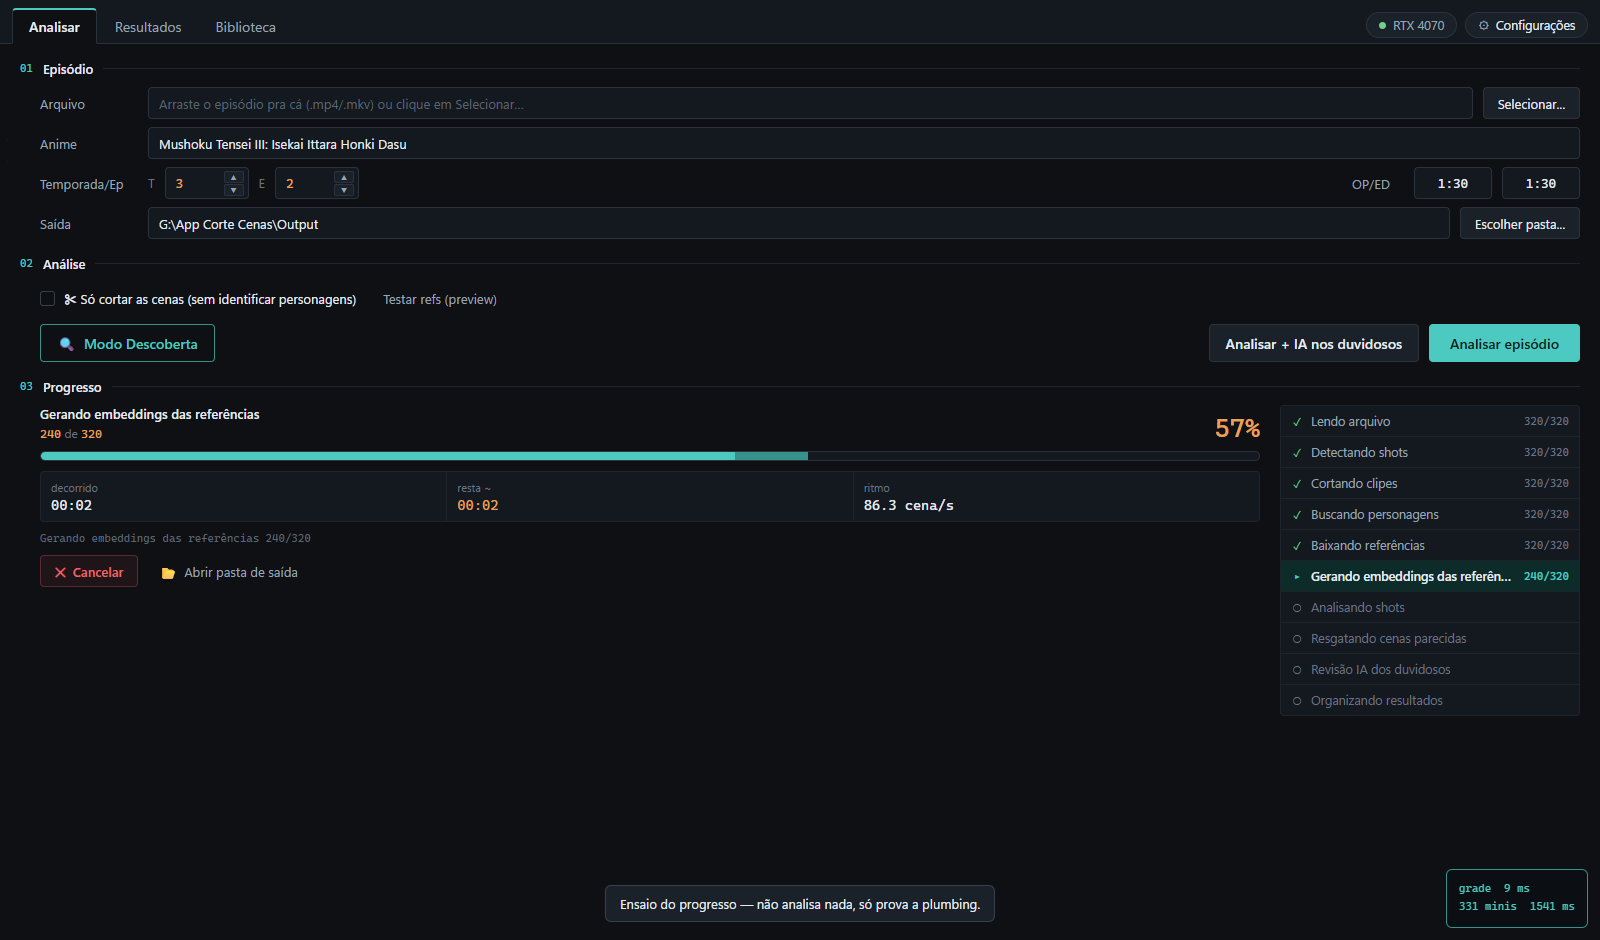
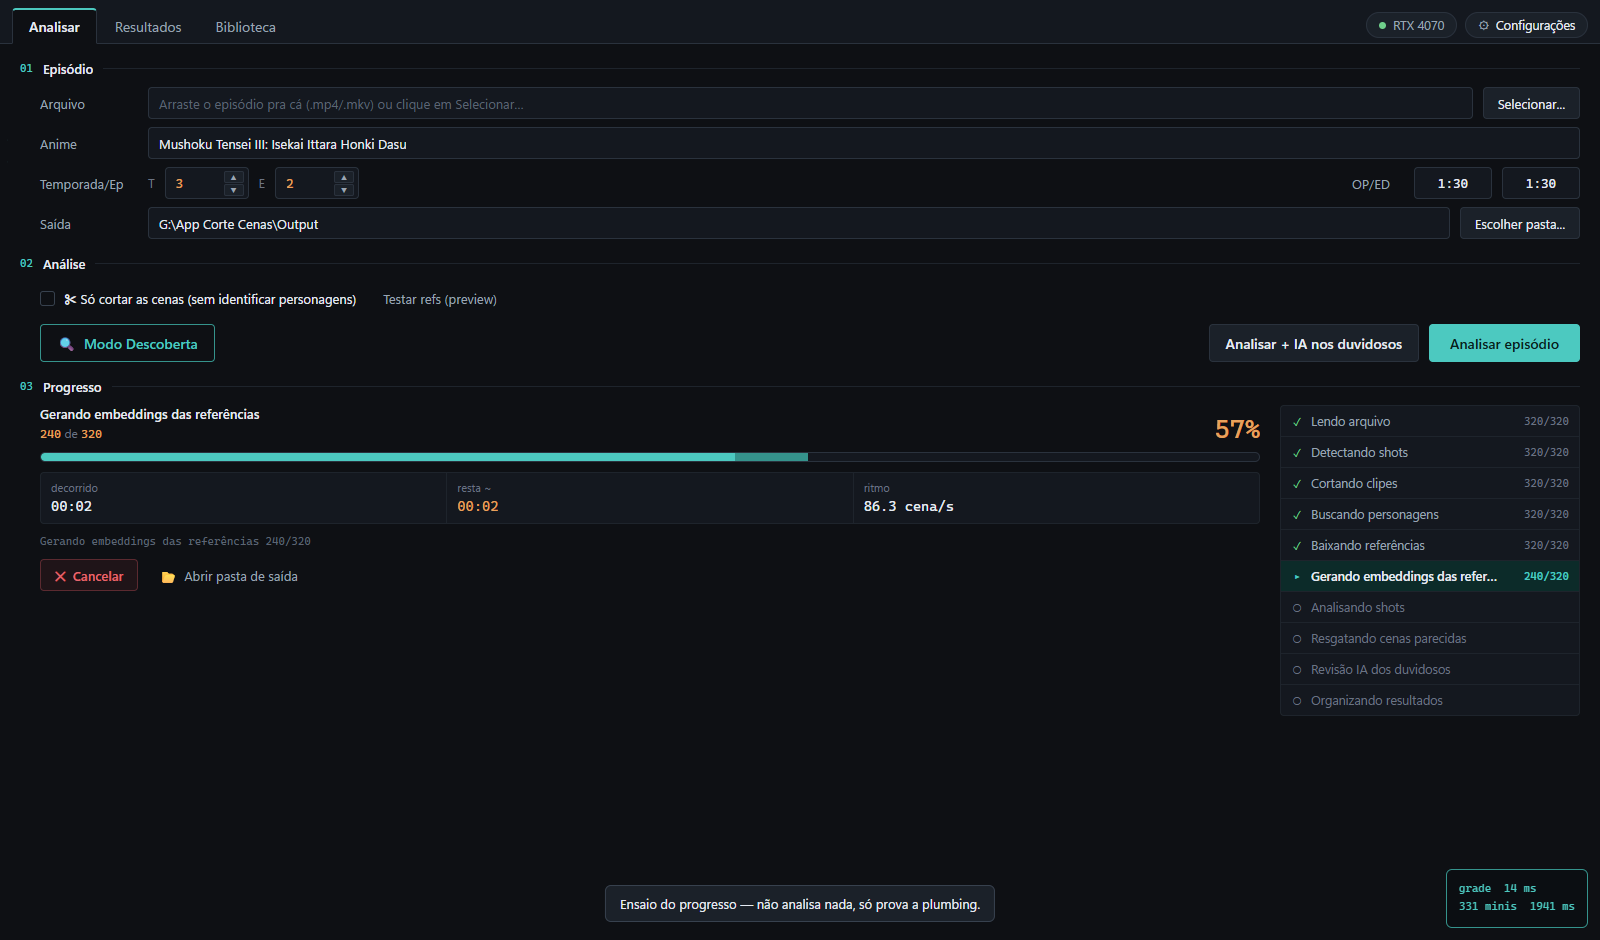
Achei o tremido de verdade: o cabecalho encolhia a cada etapa
A correcao anterior arrumou a lista de etapas e eu parei ali — mas o Levi
disse que continuava tremendo na troca de etapa, e estava certo. Eu tinha
medido o lugar errado.

Medindo a altura de CADA bloco durante o processo, apareceu na hora:
cabecalho=[26,36] PULA, contagem=[0,16] PULA. A mensagem do comeco de cada
etapa nao traz numero ("Cortando clipes", nao "Cortando clipes 40/320"),
entao a linha "240 de 320" ficava VAZIA e sumia — o cabecalho encolhia 10px
e voltava, uma vez por etapa. Era exatamente isso.

Agora a linha tem altura fixa e existe mesmo vazia. Fixa e nao min-height:
com min-height a caixa vazia media 16 e a cheia 17, por arredondamento de
subpixel — 1px de tremor que ainda aparecia em uma corrida a cada tres.

Junto, o que empurrava as coisas na horizontal: o contador crescia de
"40/320" pra "320/320" e empurrava o rotulo ao lado. Largura reservada e
digitos de mesma largura (tabular-nums) nos contadores, nos tempos e na
porcentagem.

Medido em quatro corridas seguidas: fileira=[30] cabecalho=[37]
contagem=[17] oque=[37] — nenhum bloco muda de altura durante o processo
inteiro.

licao: "mede se a fileira pula" nao e o mesmo que "mede se ALGUMA COISA
pula". O teste agora olha todos os blocos que podem encolher.

diff --git a/poc_web/app_poc.html b/poc_web/app_poc.html
@@ -104,10 +104,20 @@ body{background:var(--bg);color:var(--txt);font-family:var(--sans);font-size:13p
 .prog-esq{flex:1;display:flex;flex-direction:column;gap:10px;min-width:0}
 .prog-topo{display:flex;align-items:flex-end;justify-content:space-between;gap:12px}
 .prog-topo .oque{display:flex;flex-direction:column;gap:3px}
-.prog-topo .titulo{font-size:13px;font-weight:600;color:var(--txt)}
-.prog-topo .conta{font-size:12px;color:var(--faint)}
-.prog-topo .conta b{font-family:var(--mono);color:var(--time);font-weight:400}
-.prog-topo .pct{font-family:var(--mono);font-size:26px;color:var(--time);line-height:1}
+.prog-topo .titulo{font-size:13px;font-weight:600;color:var(--txt);
+                   line-height:17px;height:17px}
+/* A linha da contagem SOME quando a mensagem não traz número — e some no
+   começo de toda etapa. Sem altura reservada o cabeçalho encolhia 10px e
+   voltava, uma vez por etapa: era isso o tremido. */
+/* ALTURA FIXA, não min-height: com min-height a caixa vazia dava 16 e a
+   cheia 17 por arredondamento de subpixel — 1px de tremor que sobrava. */
+.prog-topo .conta{font-size:12px;color:var(--faint);line-height:17px;height:17px}
+/* o `line-height` tem que ser repetido AQUI: a altura da linha é a maior
+   entre a do pai e a do filho, e a fonte mono do número esticava 1px */
+.prog-topo .conta b{font-family:var(--mono);color:var(--time);font-weight:400;
+                    line-height:16px;font-variant-numeric:tabular-nums}
+.prog-topo .pct{font-family:var(--mono);font-size:26px;color:var(--time);
+                line-height:1;font-variant-numeric:tabular-nums}
 .barra{height:10px;background:var(--well);border:1px solid var(--line);
        border-radius:5px;display:flex;overflow:hidden}
 .barra i{height:8px;background:var(--accent)}
@@ -117,11 +127,15 @@ body{background:var(--bg);color:var(--txt);font-family:var(--sans);font-size:13p
         border-radius:4px;overflow:hidden}
 .tempos div{background:var(--well);padding:8px 10px;display:flex;
             flex-direction:column;gap:2px}
-.tempos .r{font-size:11px;color:var(--faint)}
-.tempos .v{font-family:var(--mono);font-size:14px;color:var(--txt)}
+.tempos .r{font-size:11px;color:var(--faint);line-height:14px}
+.tempos .v{font-family:var(--mono);font-size:14px;color:var(--txt);
+           line-height:18px;min-height:18px;font-variant-numeric:tabular-nums}
 .tempos .v.amb{color:var(--time)}
+/* uma linha, sempre: o caminho do arquivo muda a cada cena e sem isto a
+   altura mudava junto */
 .arquivo-atual{font-family:var(--mono);font-size:11px;color:var(--ghost);
-               overflow:hidden;text-overflow:ellipsis;white-space:nowrap}
+               overflow:hidden;text-overflow:ellipsis;white-space:nowrap;
+               line-height:15px;min-height:15px}
 .etapas{width:300px;flex:0 0 300px;display:flex;flex-direction:column;gap:1px;
         background:var(--line-soft);border:1px solid var(--line-soft);
         border-radius:4px;overflow:hidden}
@@ -133,7 +147,10 @@ body{background:var(--bg);color:var(--txt);font-family:var(--sans);font-size:13p
 .etapa .marca{width:12px;flex:0 0 12px;text-align:center;font-size:11px}
 .etapa .rotulo{flex:1;min-width:0;overflow:hidden;text-overflow:ellipsis;
                white-space:nowrap}
-.etapa .n{margin-left:auto;flex:0 0 auto;font-family:var(--mono);font-size:11px}
+/* largura reservada + dígitos de mesma largura: sem isso o contador crescia
+   de "40/320" pra "320/320" e empurrava o rótulo ao lado a cada atualização */
+.etapa .n{margin-left:auto;flex:0 0 58px;text-align:right;font-family:var(--mono);
+          font-size:11px;font-variant-numeric:tabular-nums}
 .etapa.feita{color:var(--dim)} .etapa.feita .marca{color:var(--ok)}
 .etapa.feita .n{color:var(--faint)}
 .etapa.rodando{background:var(--accent-ink);color:var(--txt);font-weight:600}

diff --git a/poc_web/poc.py b/poc_web/poc.py
@@ -509,22 +509,36 @@ def testa_progresso(jan, app) -> None:
     # O que fazia a tela tremer era a fileira mudando de altura quando o
     # rótulo longo quebrava em duas linhas. Isso é medível e estável: se só
     # aparecer UMA altura durante o processo inteiro, nada pulou.
+    # Mede a altura de TUDO que pode encolher durante o processo. Se algum
+    # bloco tiver mais de uma altura, ele pula — e pular é o tremido.
     ESPIA = r"""
     (() => {
-      window.__alturas = new Set();
+      window.__alt = {};
+      const alvos = {
+        fileira: '.etapa',
+        cabecalho: '.prog-topo',
+        contagem: '#p_conta',
+        oque: '.prog-topo .oque',
+        esquerda: '.prog-esq',
+        secao: '#analisar .secao:last-child',
+      };
       window.__timer = setInterval(() => {
-        document.querySelectorAll('.etapa').forEach(e =>
-          window.__alturas.add(Math.round(e.getBoundingClientRect().height)));
-      }, 60);
-      return 'medindo a altura das fileiras';
+        for (const [nome, sel] of Object.entries(alvos)) {
+          (window.__alt[nome] = window.__alt[nome] || new Set());
+          document.querySelectorAll(sel).forEach(e =>
+            window.__alt[nome].add(Math.round(e.getBoundingClientRect().height)));
+        }
+      }, 50);
+      return 'medindo a altura de cada bloco';
     })()
     """
     VEREDITO = r"""
     (() => {
       clearInterval(window.__timer);
-      const a = [...window.__alturas].sort((x,y) => x-y);
-      return `alturas de fileira durante todo o processo: [${a.join(', ')}]`
-           + (a.length === 1 ? ' — nada pulou' : ' — AINDA PULA');
+      return Object.entries(window.__alt).map(([n, s]) => {
+        const a = [...s].sort((x,y) => x-y);
+        return `${n}=[${a.join(',')}]${a.length > 1 ? ' PULA' : ''}`;
+      }).join('  ');
     })()
     """
 
